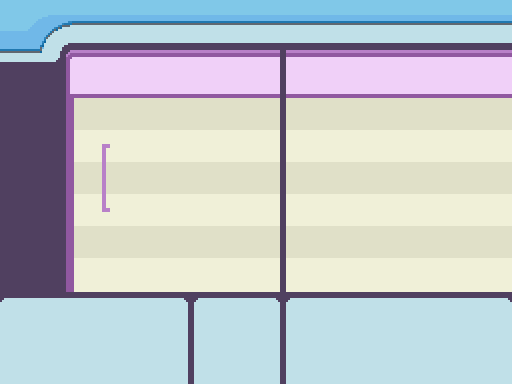
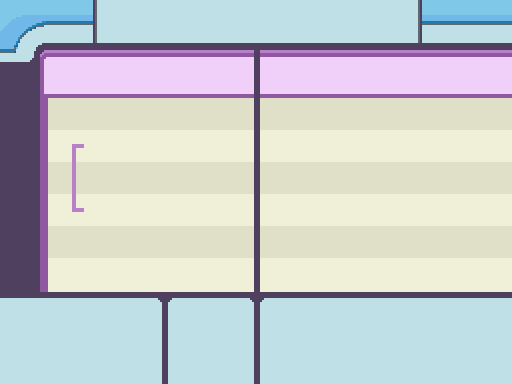
Style value apportionment screen improvements

diff --git a/Plugins/Battle/LevelingAndStats/StyleValues.rb b/Plugins/Battle/LevelingAndStats/StyleValues.rb
@@ -34,9 +34,15 @@ class StyleValueScene
         UIHelper.pbConfirm(@sprites["msgwindow"], msg) { pbUpdate }
     end
 
+    def pbShowCommands(helptext,commands,initcmd=0)
+        UIHelper.pbShowCommands(@sprites["msgwindow"], helptext, commands, initcmd) { pbUpdate }
+    end
+
     def pbUpdate
         pbUpdateSpriteHash(@sprites)
     end
+
+    BASE_X = 48
 
     def pbStartScene(pokemon)
         @pokemon = pokemon
@@ -60,11 +66,11 @@ class StyleValueScene
         # Create the left and right arrow sprites which surround the selected index
         @index = 0
         @sprites["leftarrow"] = AnimatedSprite.new("Graphics/Pictures/leftarrow", 8, 40, 28, 2, @viewport)
-        @sprites["leftarrow"].x       = 76
+        @sprites["leftarrow"].x       = BASE_X + 2
         @sprites["leftarrow"].y       = 78
         @sprites["leftarrow"].play
         @sprites["rightarrow"] = AnimatedSprite.new("Graphics/Pictures/rightarrow", 8, 40, 28, 2, @viewport)
-        @sprites["rightarrow"].x       = 232
+        @sprites["rightarrow"].x       = BASE_X + 158
         @sprites["rightarrow"].y       = 78
         @sprites["rightarrow"].play
 
@@ -82,90 +88,113 @@ class StyleValueScene
         base = Color.new(248, 248, 248)
         shadow = Color.new(104, 104, 104)
 
-        styleValueLabelX = 112
+        subtleBase = Color.new(200,200,200)
+        subtleShadow = Color.new(140,140,140)
+
+        styleValueLabelX = BASE_X + 38
         styleValueX = styleValueLabelX + 120
         styleValueY = 52
 
         # Place the pokemon's name
         textpos = []
-        # textpos = [[_INTL("{1}", @pokemon.name),styleValueLabelX,2,0,Color.new(88,88,80),Color.new(168,184,184)]]
+        textpos.push([_INTL("Adjust {1}'s Style", @pokemon.name),Graphics.width / 2,0,2,Color.new(88,88,80),Color.new(168,184,184)])
 
         # Place the pokemon's style values (stored as EVs)
+        numberBase = Color.new(64, 64, 64)
+        numberShadow = Color.new(176, 176, 176)
         textpos.concat([
                            [_INTL("Style Values"), styleValueLabelX, styleValueY, 0, base, shadow],
                            [_INTL("HP"), styleValueLabelX, styleValueY + 40, 0, base, shadow],
-                           [format("%d", @pokemon.ev[:HP]), styleValueX, styleValueY + 40, 1, Color.new(64, 64, 64),
-                            Color.new(176, 176, 176),],
+                           [format("%d", @pokemon.ev[:HP]), styleValueX, styleValueY + 40, 1, numberBase,
+                            numberShadow,],
                            [_INTL("Attack"), styleValueLabelX, styleValueY + 40 + 32 * 1, 0, base, shadow],
-                           [format("%d", @pokemon.ev[:ATTACK]), styleValueX, styleValueY + 40 + 32 * 1, 1, Color.new(64, 64, 64),
-                            Color.new(176, 176, 176),],
+                           [format("%d", @pokemon.ev[:ATTACK]), styleValueX, styleValueY + 40 + 32 * 1, 1, numberBase,
+                            numberShadow,],
                            [_INTL("Defense"), styleValueLabelX, styleValueY + 40 + 32 * 2, 0, base, shadow],
-                           [format("%d", @pokemon.ev[:DEFENSE]), styleValueX, styleValueY + 40 + 32 * 2, 1, Color.new(64, 64, 64),
-                            Color.new(176, 176, 176),],
+                           [format("%d", @pokemon.ev[:DEFENSE]), styleValueX, styleValueY + 40 + 32 * 2, 1, numberBase,
+                            numberShadow,],
                            [_INTL("Sp. Atk"), styleValueLabelX, styleValueY + 40 + 32 * 3, 0, base, shadow],
-                           [format("%d", @pokemon.ev[:SPECIAL_ATTACK]), styleValueX, styleValueY + 40 + 32 * 3, 1, Color.new(64, 64, 64),
-                            Color.new(176, 176, 176),],
+                           [format("%d", @pokemon.ev[:SPECIAL_ATTACK]), styleValueX, styleValueY + 40 + 32 * 3, 1, numberBase,
+                            numberShadow,],
                            [_INTL("Sp. Def"), styleValueLabelX, styleValueY + 40 + 32 * 4, 0, base, shadow],
-                           [format("%d", @pokemon.ev[:SPECIAL_DEFENSE]), styleValueX, styleValueY + 40 + 32 * 4, 1, Color.new(64, 64, 64),
-                            Color.new(176, 176, 176),],
+                           [format("%d", @pokemon.ev[:SPECIAL_DEFENSE]), styleValueX, styleValueY + 40 + 32 * 4, 1, numberBase,
+                            numberShadow,],
                            [_INTL("Speed"), styleValueLabelX, styleValueY + 40 + 32 * 5, 0, base, shadow],
-                           [format("%d", @pokemon.ev[:SPEED]), styleValueX, styleValueY + 40 + 32 * 5, 1, Color.new(64, 64, 64),
-                            Color.new(176, 176, 176),],
+                           [format("%d", @pokemon.ev[:SPEED]), styleValueX, styleValueY + 40 + 32 * 5, 1, numberBase,
+                           numberShadow,],
                        ])
 
         # Place the "reset all" button
         red = Color.new(250, 120, 120)
-        resetAndConfirmY = 296
+        resetAndConfirmY = 298
         textpos.push([_INTL("Free All"), styleValueLabelX - 52, resetAndConfirmY, 0, @index == 6 ? red : base,
                       shadow,])
-        textpos.push([_INTL("Confirm"), styleValueLabelX - 52, resetAndConfirmY + 40, 0, @index == 7 ? red : base,
+        textpos.push([_INTL("Confirm"), styleValueLabelX - 52, resetAndConfirmY + 38, 0, @index == 7 ? red : base,
                       shadow,])
 
         # Place the pokemon's final resultant stats
-        finalStatLabelX = styleValueLabelX + 208
-        finalStatX	= finalStatLabelX + 120
+        finalStatLabelX = styleValueLabelX + 200
+        finalStatX	= finalStatLabelX + 132
         finalStatY = 52
         textpos.concat([
                            [_INTL("Final Stats"), finalStatLabelX, finalStatY, 0, base, shadow],
                            [_INTL("HP"), finalStatLabelX, finalStatY + 40 + 32 * 0, 0, base, shadow],
-                           [format("%d", @pokemon.totalhp), finalStatX, finalStatY + 40 + 32 * 0, 1, Color.new(64, 64, 64),
-                            Color.new(176, 176, 176),],
+                           [format("%d", @pokemon.totalhp), finalStatX, finalStatY + 40 + 32 * 0, 1, numberBase,
+                            numberShadow,],
                            [_INTL("Attack"), finalStatLabelX, finalStatY + 40 + 32 * 1, 0, base, shadow],
-                           [format("%d", @pokemon.attack), finalStatX, finalStatY + 40 + 32 * 1, 1, Color.new(64, 64, 64),
-                            Color.new(176, 176, 176),],
+                           [format("%d", @pokemon.attack), finalStatX, finalStatY + 40 + 32 * 1, 1, numberBase,
+                            numberShadow,],
                            [_INTL("Defense"), finalStatLabelX, finalStatY + 40 + 32 * 2, 0, base, shadow],
-                           [format("%d", @pokemon.defense), finalStatX, finalStatY + 40 + 32 * 2, 1, Color.new(64, 64, 64),
-                            Color.new(176, 176, 176),],
+                           [format("%d", @pokemon.defense), finalStatX, finalStatY + 40 + 32 * 2, 1, numberBase,
+                            numberShadow,],
                            [_INTL("Sp. Atk"), finalStatLabelX, finalStatY + 40 + 32 * 3, 0, base, shadow],
-                           [format("%d", @pokemon.spatk), finalStatX, finalStatY + 40 + 32 * 3, 1, Color.new(64, 64, 64),
-                            Color.new(176, 176, 176),],
+                           [format("%d", @pokemon.spatk), finalStatX, finalStatY + 40 + 32 * 3, 1, numberBase,
+                            numberShadow,],
                            [_INTL("Sp. Def"), finalStatLabelX, finalStatY + 40 + 32 * 4, 0, base, shadow],
-                           [format("%d", @pokemon.spdef), finalStatX, finalStatY + 40 + 32 * 4, 1, Color.new(64, 64, 64),
-                            Color.new(176, 176, 176),],
+                           [format("%d", @pokemon.spdef), finalStatX, finalStatY + 40 + 32 * 4, 1, numberBase,
+                            numberShadow,],
                            [_INTL("Speed"), finalStatLabelX, finalStatY + 40 + 32 * 5, 0, base, shadow],
-                           [format("%d", @pokemon.speed), finalStatX, finalStatY + 40 + 32 * 5, 1, Color.new(64, 64, 64),
-                            Color.new(176, 176, 176),],
+                           [format("%d", @pokemon.speed), finalStatX, finalStatY + 40 + 32 * 5, 1, numberBase,
+                            numberShadow,],
+                       ])
+
+        # Place the pokemon's final effective HP stats (EHP)
+        ehpLabelX = finalStatLabelX + 160
+        pehp = (@pokemon.totalhp * @pokemon.defense) / 100
+        sehp = (@pokemon.totalhp * @pokemon.spdef) / 100
+        textpos.concat([
+                           [_INTL("EHP"), ehpLabelX, finalStatY, 0, subtleBase, subtleShadow],
+                           [format("%d", pehp), ehpLabelX, finalStatY + 40 + 32 * 2, 0, subtleBase,
+                            subtleShadow,],
+                           [format("%d", sehp), ehpLabelX, finalStatY + 40 + 32 * 4, 0, subtleBase,
+                            subtleShadow,],
                        ])
 
         # Place the style value pool
-        poolXLeft = finalStatLabelX - 116
-        poolY = 296
+        poolXLeft = BASE_X + 140
+        poolY = resetAndConfirmY
         textpos.concat([
                            [_INTL("Pool"), poolXLeft, poolY, 0, base, shadow],
-                           [format("%d", @pool), poolXLeft, poolY + 40, 0, Color.new(64, 64, 64),
-                            Color.new(176, 176, 176),],
+                           [format("%d", @pool), poolXLeft, poolY + 40, 0, numberBase,
+                            numberShadow,],
                        ])
 
         # Place the style name
         styleXLeft = finalStatLabelX
-        styleNameY = 296
-        styleName = "Balanced"
+        styleNameY = resetAndConfirmY
         styleName = getStyleName(@pokemon.ev)
         textpos.concat([
                            [_INTL("Style"), styleXLeft, styleNameY, 0, base, shadow],
-                           [styleName, styleXLeft, styleNameY + 40, 0, Color.new(64, 64, 64),
-                            Color.new(176, 176, 176),],
+                           [styleName, styleXLeft, styleNameY + 40, 0, numberBase,
+                            numberShadow,],
                        ])
+
+        # Place the quick set helper
+        helperX = styleXLeft + 80
+        textpos.concat([
+                            [_INTL("ACTION/Z for"), helperX, poolY + 4, 0, subtleBase, subtleShadow],
+                            [_INTL("quick set"), helperX, poolY + 36, 0, subtleBase, subtleShadow],
+                        ])
 
         # Draw all the previously placed texts
         pbDrawTextPositions(overlay, textpos)
@@ -201,93 +230,93 @@ class StyleValueScene
         if largeStats.length == 1
             case largeStats[0]
             when :HP
-                return "Stocky"
+                return _INTL("Stocky")
             when :ATTACK
-                return "Aggressive"
+                return _INTL("Aggressive")
             when :DEFENSE
-                return "Defensive"
+                return _INTL("Defensive")
             when :SPECIAL_ATTACK
-                return "Cunning"
+                return _INTL("Cunning")
             when :SPECIAL_DEFENSE
-                return "Suspicious"
+                return _INTL("Suspicious")
             when :SPEED
-                return "Quick"
+                return _INTL("Quick")
             end
         elsif largeStats.length == 2
             case largeStats
             when %i[HP ATTACK]
-                return "Brutish"
+                return _INTL("Brutish")
             when %i[HP DEFENSE]
-                return "Armored"
+                return _INTL("Armored")
             when %i[HP SPECIAL_ATTACK]
-                return "Attuned"
+                return _INTL("Attuned")
             when %i[HP SPECIAL_DEFENSE]
-                return "Guarded"
+                return _INTL("Guarded")
             when %i[HP SPEED]
-                return "Unyielding"
+                return _INTL("Unyielding")
             when %i[ATTACK DEFENSE]
-                return "Bulky"
+                return _INTL("Bulky")
             when %i[ATTACK SPECIAL_ATTACK]
-                return "Variable"
+                return _INTL("Variable")
             when %i[ATTACK SPECIAL_DEFENSE]
-                return "Flowing"
+                return _INTL("Flowing")
             when %i[ATTACK SPEED]
-                return "Hunting"
+                return _INTL("Hunting")
             when %i[DEFENSE SPECIAL_ATTACK]
-                return "Vanguard"
+                return _INTL("Vanguard")
             when %i[DEFENSE SPECIAL_DEFENSE]
-                return "Prepared"
+                return _INTL("Prepared")
             when %i[DEFENSE SPEED]
-                return "Steady"
+                return _INTL("Steady")
             when %i[SPECIAL_ATTACK SPECIAL_DEFENSE]
-                return "Calm"
+                return _INTL("Calm")
             when %i[SPECIAL_ATTACK SPEED]
-                return "Striking"
+                return _INTL("Striking")
             when %i[SPECIAL_DEFENSE SPEED]
-                return "Spirited"
+                return _INTL("Spirited")
             end
         elsif largeStats.length == 3
             case largeStats
             when %i[HP ATTACK DEFENSE]
-                return "Blunt"
+                return _INTL("Blunt")
             when %i[HP ATTACK SPECIAL_ATTACK]
-                return "Forceful"
+                return _INTL("Forceful")
             when %i[HP ATTACK SPECIAL_DEFENSE]
-                return "Smooth"
+                return _INTL("Smooth")
             when %i[HP ATTACK SPEED]
-                return "Blitzing"
+                return _INTL("Blitzing")
             when %i[HP DEFENSE SPECIAL_ATTACK]
-                return "Fortified"
+                return _INTL("Fortified")
             when %i[HP DEFENSE SPECIAL_DEFENSE]
-                return "Precautionary"
+                return _INTL("Precautionary")
             when %i[HP DEFENSE SPEED]
-                return "Carefree"
+                return _INTL("Carefree")
             when %i[HP SPECIAL_DEFENSE SPEED]
-                return "Crafty"
+                return _INTL("Crafty")
             when %i[HP SPECIAL_ATTACK SPECIAL_DEFENSE]
-                return "Serene"
+                return _INTL("Serene")
             when %i[HP SPECIAL_ATTACK SPEED]
-                return "Energetic"
+                return _INTL("Energetic")
             when %i[ATTACK DEFENSE SPECIAL_ATTACK]
-                return "Deliberate"
+                return _INTL("Deliberate")
             when %i[ATTACK DEFENSE SPECIAL_DEFENSE]
-                return "Patient"
+                return _INTL("Patient")
             when %i[ATTACK DEFENSE SPEED]
-                return "Flanking"
+                return _INTL("Flanking")
             when %i[ATTACK SPECIAL_ATTACK SPECIAL_DEFENSE]
-                return "Strategic"
+                return _INTL("Strategic")
             when %i[ATTACK SPECIAL_ATTACK SPEED]
-                return "Opportunistic"
+                return _INTL("Opportunistic")
             when %i[ATTACK SPECIAL_DEFENSE SPEED]
-                return "Determined"
+                return _INTL("Determined")
             when %i[DEFENSE SPECIAL_ATTACK SPECIAL_DEFENSE]
-                return "Calculating"
+                return _INTL("Calculating")
             when %i[DEFENSE SPECIAL_ATTACK SPEED]
-                return "Tactical"
+                return _INTL("Tactical")
             when %i[DEFENSE SPECIAL_DEFENSE SPEED]
-                return "Protective"
+                return _INTL("Protective")
             when %i[SPECIAL_ATTACK SPECIAL_DEFENSE SPEED]
-                return "Elegant"
+                return _INTL("Elegant")
             end
         elsif largeStats.length >= 4
             echoln("This shouldn't be possible.")
@@ -431,6 +460,38 @@ class StyleValueScreen
                 elsif Input.time?(Input::LEFT) < 20_000
                     pbPlayBuzzerSE
                 end
+            elsif Input.trigger?(Input::ACTION)
+                if COMBINE_ATTACKING_STATS
+                    choices = {
+                        _INTL("Fast Attacker") => [10,20,0,20,0,20],
+                        _INTL("Physical Tank") => [10,20,20,20,0,0],
+                        _INTL("Special Tank") => [10,20,0,20,20,0],
+                        _INTL("Physical Wall") => [20,0,20,0,10,0],
+                        _INTL("Special Wall") => [20,0,10,0,20,0],
+                    }
+                else
+                    choices = {
+                        _INTL("Physical Attacker") => [10,20,0,0,0,20],
+                        _INTL("Special Attacker") => [10,0,0,20,0,20],
+                        _INTL("Physical Tank") => [10,20,20,0,0,0],
+                        _INTL("Special Tank") => [10,0,0,20,20,0],
+                        _INTL("Physical Wall") => [20,0,20,0,10,0],
+                        _INTL("Special Wall") => [20,0,10,0,20,0],
+                    }
+                end
+                windowChoices = [_INTL("Cancel")].concat(choices.keys)
+                choice = @scene.pbShowCommands(nil, windowChoices)
+                next if choice <= 0
+                statsArray = choices.values[choice-1]
+
+                statIDOrder = [:HP,:ATTACK,:DEFENSE,:SPECIAL_ATTACK,:SPECIAL_DEFENSE,:SPEED]
+                statsArray.each_with_index do |value, index|
+                    id = statIDOrder[index]
+                    pkmn.ev[id] = value
+                end
+                @pool = 0
+                @scene.pool = 0
+                updateStats(pkmn)
             end
         end
     end
